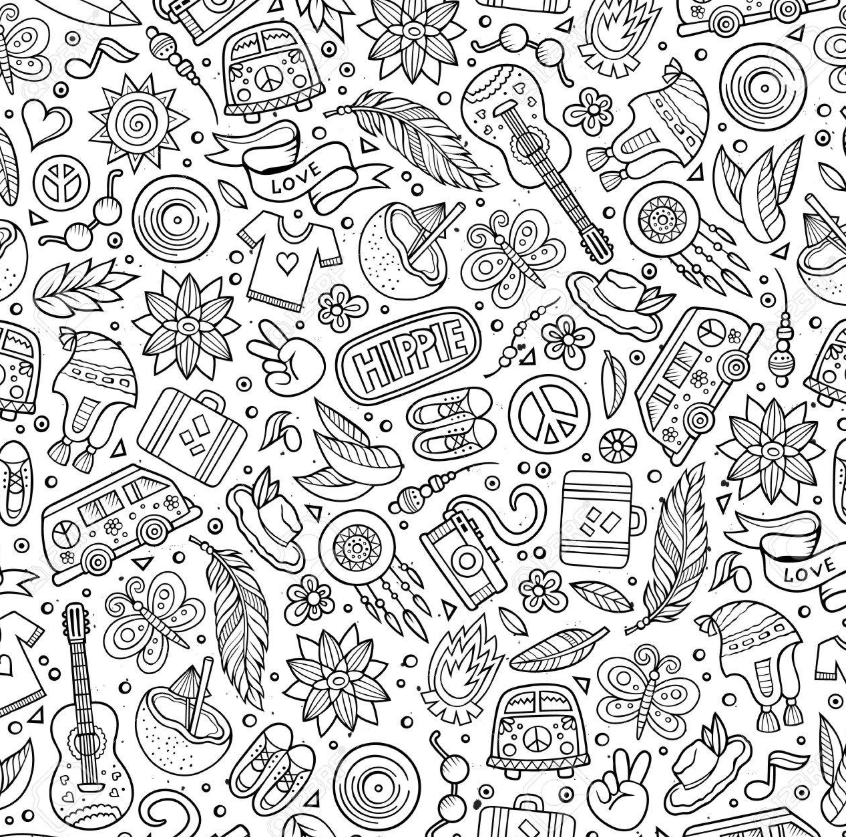
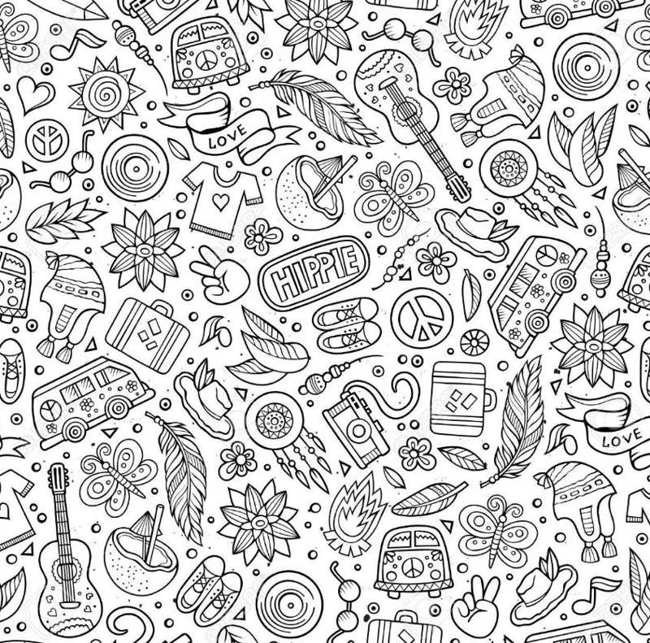
images resized in home.jsx

diff --git a/frontend/src/modules/customer/components/shared/SkeletonLoader.jsx b/frontend/src/modules/customer/components/shared/SkeletonLoader.jsx
@@ -1,0 +1,133 @@
+import React from 'react';
+import { cn } from '@/lib/utils';
+
+export const Skeleton = ({ className, ...props }) => {
+  return (
+    <div
+      className={cn("animate-pulse rounded bg-slate-200/80 dark:bg-slate-800/80", className)}
+      {...props}
+    />
+  );
+};
+
+export const ProductCardSkeleton = ({ compact = false }) => {
+  return (
+    <div className="bg-white rounded-2xl p-3 border border-slate-100 shadow-sm flex flex-col gap-3 h-full">
+      {/* Image Skeleton */}
+      <Skeleton className="w-full aspect-[4/3] rounded-xl" />
+      
+      {/* Title & Brand Skeletons */}
+      <div className="space-y-2 flex-1">
+        <Skeleton className="h-4 w-3/4 rounded" />
+        <Skeleton className="h-3 w-1/2 rounded" />
+      </div>
+      
+      {/* Price & Add button Row */}
+      <div className="flex items-center justify-between mt-1 pt-2 border-t border-slate-50">
+        <div className="space-y-1">
+          <Skeleton className="h-4 w-12 rounded" />
+          <Skeleton className="h-3 w-8 rounded" />
+        </div>
+        <Skeleton className="h-8 w-16 rounded-lg" />
+      </div>
+    </div>
+  );
+};
+
+export const ShopCardSkeleton = () => {
+  return (
+    <div className="bg-white rounded-2xl p-3 shadow-[0_4px_20px_rgba(0,0,0,0.03)] border border-slate-100/80 flex flex-col gap-2.5">
+      {/* Shop Image Skeleton */}
+      <Skeleton className="w-full aspect-[4/3] rounded-xl" />
+      
+      {/* Shop Name & Details */}
+      <div className="space-y-2">
+        <Skeleton className="h-4 w-5/6 rounded" />
+        <div className="flex items-center gap-1.5">
+          <Skeleton className="h-3 w-1/3 rounded" />
+          <Skeleton className="h-3 w-1/4 rounded" />
+        </div>
+      </div>
+    </div>
+  );
+};
+
+export const ShopHeaderSkeleton = () => {
+  return (
+    <div className="w-full">
+      {/* Banner Skeleton */}
+      <div className="relative w-full h-48 md:h-72 bg-slate-200 animate-pulse rounded-b-3xl">
+        <div className="absolute inset-0 bg-gradient-to-t from-[#fbf9ff] to-transparent" />
+      </div>
+      
+      {/* Shop Info Card Skeleton */}
+      <div className="max-w-6xl mx-auto px-4 md:px-8 relative -mt-16 z-10">
+        <div className="bg-white rounded-3xl p-6 shadow-[0_8px_30px_rgba(0,0,0,0.04)] border border-slate-100 mb-6">
+          <div className="flex flex-col md:flex-row md:items-start justify-between gap-6">
+            <div className="flex items-center gap-4.5">
+              {/* Logo */}
+              <Skeleton className="h-20 w-20 rounded-2xl flex-shrink-0" />
+              {/* Title & Category */}
+              <div className="space-y-2.5">
+                <Skeleton className="h-7 w-48 rounded-lg" />
+                <div className="flex gap-2">
+                  <Skeleton className="h-5 w-20 rounded-full" />
+                  <Skeleton className="h-5 w-32 rounded-full" />
+                </div>
+              </div>
+            </div>
+            {/* Action Card Skeleton */}
+            <Skeleton className="h-20 w-full md:w-64 rounded-2xl" />
+          </div>
+          <div className="grid grid-cols-2 md:grid-cols-4 gap-3 border-t border-slate-100 pt-5 mt-5">
+            {[1, 2, 3, 4].map((i) => (
+              <Skeleton key={i} className="h-5 w-24 rounded" />
+            ))}
+          </div>
+        </div>
+      </div>
+    </div>
+  );
+};
+
+export const CategoryListSkeleton = () => {
+  return (
+    <div className="flex gap-3 overflow-hidden py-2">
+      {[1, 2, 3, 4, 5, 6, 7, 8].map((i) => (
+        <Skeleton key={i} className="h-9 w-24 rounded-xl flex-shrink-0" />
+      ))}
+    </div>
+  );
+};
+
+export default function SkeletonLoader({ variant = 'productGrid', count = 4, className }) {
+  if (variant === 'productGrid') {
+    return (
+      <div className={cn("grid grid-cols-3 md:grid-cols-4 gap-2.5 md:gap-4", className)}>
+        {Array.from({ length: count }).map((_, i) => (
+          <ProductCardSkeleton key={i} />
+        ))}
+      </div>
+    );
+  }
+
+  if (variant === 'shopGrid') {
+    return (
+      <div className={cn("grid grid-cols-2 sm:grid-cols-2 md:grid-cols-4 gap-4", className)}>
+        {Array.from({ length: count }).map((_, i) => (
+          <ShopCardSkeleton key={i} />
+        ))}
+      </div>
+    );
+  }
+
+  if (variant === 'shopHeader') {
+    return <ShopHeaderSkeleton />;
+  }
+
+  if (variant === 'categoryList') {
+    return <CategoryListSkeleton />;
+  }
+
+  return null;
+}

diff --git a/frontend/src/modules/customer/pages/Home.jsx b/frontend/src/modules/customer/pages/Home.jsx
@@ -33,6 +33,7 @@ import { useSettings } from "@core/context/SettingsContext";
 import Lottie from "lottie-react";
 import { applyCloudinaryTransform } from "@/core/utils/imageUtils";
 import { getJSON, remove as removeStorage, STORAGE_KEYS } from "@core/utils/storage";
+import SkeletonLoader from "../components/shared/SkeletonLoader";
 
 import {
   MARQUEE_MESSAGES,
@@ -42,7 +43,10 @@ import {
 
 import LowestPriceSection from "../components/home/LowestPriceSection";
 import OfferSections from "../components/home/OfferSections";
-const getShopImage = (category, shopName) => {
+const getShopImage = (category, shopName, shopLogo) => {
+  if (shopLogo) {
+    return applyCloudinaryTransform(shopLogo, "f_auto,q_auto,w_400,h_300,c_fill");
+  }
   const cat = String(category || "").toLowerCase();
   const name = String(shopName || "").toLowerCase();
   if (cat.includes("milk") || cat.includes("dairy") || name.includes("milk") || name.includes("dairy")) {
@@ -748,46 +752,61 @@ const Home = () => {
               </span>
             </div>
 
-            <div className="grid grid-cols-2 sm:grid-cols-2 md:grid-cols-4 gap-4">
-              {dynamicShops.map((shop) => (
-                <div key={shop._id} onClick={() => navigate(`/shops/${shop._id}`)} className="bg-white rounded-2xl p-3 shadow-[0_4px_20px_rgba(0,0,0,0.03)] border border-slate-100/80 flex flex-col gap-2.5 hover:shadow-[0_8px_30px_rgba(0,0,0,0.07)] hover:-translate-y-0.5 transition-all duration-300 group cursor-pointer">
-                  <div className="w-full aspect-[4/3] rounded-xl overflow-hidden bg-slate-50 relative">
-                    <img
-                      src={getShopImage(shop.category, shop.shopName)}
-                      alt={shop.shopName}
-                      className="w-full h-full object-cover group-hover:scale-105 transition-transform duration-500"
-                    />
-                    <span className="absolute top-2 right-2 bg-white/95 backdrop-blur-sm px-2 py-0.5 rounded-full text-[10px] font-extrabold text-slate-800 shadow-sm flex items-center gap-0.5">
-                      ⭐ {shop.rating || "4.6"}
-                    </span>
-                  </div>
-                  <div className="flex flex-col gap-1">
-                    <h4 className="font-extrabold text-slate-850 text-xs md:text-sm lg:text-base line-clamp-1 leading-tight group-hover:text-primary transition-colors">
-                      {shop.shopName}
-                    </h4>
-                    <div className="flex items-center gap-1.5 text-[10px] md:text-[11px] font-bold text-slate-500">
-                      <span>{shop.deliveryTime || "15-25 min"}</span>
-                      <span className="w-1 h-1 bg-slate-300 rounded-full"></span>
-                      <span className="text-[#10b981]">Free Delivery</span>
-                    </div>
-                    {shop.distance !== undefined && (
-                      <span className="text-[10px] text-slate-400 font-medium">
-                        {typeof shop.distance === 'number' ? `${shop.distance.toFixed(1)} km away` : shop.distance}
+            {isLoading ? (
+              <SkeletonLoader variant="shopGrid" count={4} />
+            ) : (
+              <div className="grid grid-cols-2 sm:grid-cols-2 md:grid-cols-4 gap-4">
+                {dynamicShops.map((shop) => (
+                  <div key={shop._id} onClick={() => navigate(`/shops/${shop._id}`)} className="bg-white rounded-2xl p-3 shadow-[0_4px_20px_rgba(0,0,0,0.03)] border border-slate-100/80 flex flex-col gap-2.5 hover:shadow-[0_8px_30px_rgba(0,0,0,0.07)] hover:-translate-y-0.5 transition-all duration-300 group cursor-pointer">
+                    <div className="w-full aspect-[4/3] rounded-xl overflow-hidden bg-slate-50 relative">
+                      <img
+                        src={getShopImage(shop.category, shop.shopName, shop.shopLogo || shop.logo || shop.shopImage)}
+                        alt={shop.shopName}
+                        className="w-full h-full object-cover group-hover:scale-105 transition-transform duration-500"
+                      />
+                      <span className="absolute top-2 right-2 bg-white/95 backdrop-blur-sm px-2 py-0.5 rounded-full text-[10px] font-extrabold text-slate-800 shadow-sm flex items-center gap-0.5">
+                        ⭐ {shop.rating || "4.6"}
                       </span>
-                    )}
+                    </div>
+                    <div className="flex flex-col gap-1">
+                      <h4 className="font-extrabold text-slate-850 text-xs md:text-sm lg:text-base line-clamp-1 leading-tight group-hover:text-primary transition-colors">
+                        {shop.shopName}
+                      </h4>
+                      <div className="flex items-center gap-1.5 text-[10px] md:text-[11px] font-bold text-slate-500">
+                        <span>{shop.deliveryTime || "15-25 min"}</span>
+                        <span className="w-1 h-1 bg-slate-300 rounded-full"></span>
+                        <span className="text-[#10b981]">Free Delivery</span>
+                      </div>
+                      {shop.distance !== undefined && (
+                        <span className="text-[10px] text-slate-400 font-medium">
+                          {typeof shop.distance === 'number' ? `${shop.distance.toFixed(1)} km away` : shop.distance}
+                        </span>
+                      )}
+                    </div>
                   </div>
-                </div>
-              ))}
-            </div>
+                ))}
+              </div>
+            )}
           </div>
 
-          <LowestPriceSection products={products} onSeeAll={() => navigate("/category/all")} />
-          <OfferSections sections={offerSections} noServiceData={noServiceData} />
-
-          {sectionsForRenderer.length > 0 && (
+          {isLoading ? (
             <div className="container mx-auto max-w-6xl px-4 md:px-8 py-5 md:py-6">
-              <SectionRenderer sections={sectionsForRenderer} productsById={productsById} categoriesById={categoryMap} subcategoriesById={subcategoryMap} />
+              <h3 className="text-base md:text-xl font-black text-[#1A1A1A] tracking-tight uppercase mb-4">
+                Loading products...
+              </h3>
+              <SkeletonLoader variant="productGrid" count={8} />
             </div>
+          ) : (
+            <>
+              <LowestPriceSection products={products} onSeeAll={() => navigate("/category/all")} />
+              <OfferSections sections={offerSections} noServiceData={noServiceData} />
+
+              {sectionsForRenderer.length > 0 && (
+                <div className="container mx-auto max-w-6xl px-4 md:px-8 py-5 md:py-6">
+                  <SectionRenderer sections={sectionsForRenderer} productsById={productsById} categoriesById={categoryMap} subcategoriesById={subcategoryMap} />
+                </div>
+              )}
+            </>
           )}
         </>
       )}

diff --git a/frontend/src/modules/customer/pages/ShopDetails.jsx b/frontend/src/modules/customer/pages/ShopDetails.jsx
@@ -10,6 +10,7 @@ import { customerApi } from "../services/customerApi";
 import ProductCard from "../components/shared/ProductCard";
 import { useCart } from "../context/CartContext";
 import { applyCloudinaryTransform } from "@/core/utils/imageUtils";
+import SkeletonLoader from "../components/shared/SkeletonLoader";
 
 const SHOP_CATEGORIES = [
   "All", "Groceries", "Fruits & Vegetables", "Dairy & Milk", "Bakery",
@@ -197,38 +198,11 @@ const ShopDetails = () => {
 
   if (isLoading) {
     return (
-      <div className="min-h-screen bg-slate-50 pt-[100px] pb-24 font-sans max-w-6xl mx-auto px-4 md:px-8">
-        {/* Banner Skeleton */}
-        <div className="w-full h-48 md:h-64 rounded-3xl bg-slate-200 animate-pulse mb-6" />
-        
-        {/* Info Skeleton */}
-        <div className="bg-white rounded-3xl p-6 shadow-sm border border-slate-100 mb-8 space-y-4">
-          <div className="flex gap-4 items-center">
-            <div className="h-16 w-16 rounded-2xl bg-slate-200 animate-pulse" />
-            <div className="space-y-2 flex-1">
-              <div className="h-6 w-1/3 bg-slate-200 animate-pulse rounded" />
-              <div className="h-4 w-1/4 bg-slate-200 animate-pulse rounded" />
-            </div>
-          </div>
-          <div className="h-4 w-2/3 bg-slate-200 animate-pulse rounded" />
-        </div>
-
-        {/* Categories Skeleton */}
-        <div className="flex gap-3 overflow-hidden mb-8">
-          {[1, 2, 3, 4, 5, 6].map(i => (
-            <div key={i} className="h-10 w-24 bg-slate-200 rounded-full animate-pulse flex-shrink-0" />
-          ))}
-        </div>
-
-        {/* Products Grid Skeleton */}
-        <div className="grid grid-cols-2 md:grid-cols-4 gap-4">
-          {[1, 2, 3, 4].map(i => (
-            <div key={i} className="bg-white rounded-2xl p-4 shadow-sm border border-slate-100 h-64 flex flex-col space-y-3">
-              <div className="w-full flex-1 bg-slate-200 animate-pulse rounded-xl" />
-              <div className="h-4 w-3/4 bg-slate-200 animate-pulse rounded" />
-              <div className="h-6 w-1/2 bg-slate-200 animate-pulse rounded" />
-            </div>
-          ))}
+      <div className="min-h-screen bg-slate-50 pb-24 font-sans">
+        <SkeletonLoader variant="shopHeader" />
+        <div className="max-w-6xl mx-auto px-4 md:px-8 space-y-6">
+          <SkeletonLoader variant="categoryList" />
+          <SkeletonLoader variant="productGrid" count={8} />
         </div>
       </div>
     );
@@ -252,7 +226,7 @@ const ShopDetails = () => {
       
       {/* 1. Header Banner Area */}
       <div className="relative w-full h-48 md:h-72 overflow-hidden bg-slate-900">
-        <img src={getShopBanner()} alt={shop.shopName} className="w-full h-full object-cover opacity-80" />
+        <img src={applyCloudinaryTransform(getShopBanner(), "f_auto,q_auto,w_1200,h_400,c_fill")} alt={shop.shopName} className="w-full h-full object-cover opacity-80" />
         <div className="absolute inset-0 bg-gradient-to-t from-[#fbf9ff] via-transparent to-black/30 pointer-events-none" />
         
         {/* Back Button */}
@@ -272,7 +246,7 @@ const ShopDetails = () => {
             <div className="flex items-center gap-4.5">
               <div className="h-20 w-20 rounded-2xl overflow-hidden bg-purple-50 border border-purple-100 flex items-center justify-center flex-shrink-0 shadow-inner">
                 {shop.shopLogo ? (
-                  <img src={shop.shopLogo} alt={shop.shopName} className="h-full w-full object-cover" />
+                  <img src={applyCloudinaryTransform(shop.shopLogo, "f_auto,q_auto,w_200,h_200,c_fill")} alt={shop.shopName} className="h-full w-full object-cover" />
                 ) : (
                   <span className="text-2xl font-black text-[#3a2a83]">{getInitials(shop.shopName)}</span>
                 )}
@@ -486,18 +460,17 @@ const ShopDetails = () => {
           <h2 className="text-base md:text-lg font-black text-slate-800 tracking-tight uppercase mb-4 flex items-center gap-1.5">
             📸 Shop Gallery
           </h2>
-          {/* Mobile: horizontal scroll, Desktop: grid */}
           <div className="hidden md:grid grid-cols-3 gap-4">
             {allGalleryImages.map((img, idx) => (
               <div key={idx} className="aspect-[4/3] rounded-2xl overflow-hidden shadow-sm border border-slate-100 bg-slate-100 group">
-                <img src={img} alt="Store Interior/Shelves" className="w-full h-full object-cover transition-transform duration-500 group-hover:scale-105" />
+                <img src={applyCloudinaryTransform(img, "f_auto,q_auto,w_600,h_450,c_fill")} alt="Store Interior/Shelves" className="w-full h-full object-cover transition-transform duration-500 group-hover:scale-105" />
               </div>
             ))}
           </div>
           <div className="md:hidden flex gap-4 overflow-x-auto pb-3 no-scrollbar -mx-4 px-4">
             {allGalleryImages.map((img, idx) => (
               <div key={idx} className="w-72 aspect-[4/3] rounded-2xl overflow-hidden shadow-sm border border-slate-100 bg-slate-100 shrink-0">
-                <img src={img} alt="Store Interior/Shelves" className="w-full h-full object-cover" />
+                <img src={applyCloudinaryTransform(img, "f_auto,q_auto,w_600,h_450,c_fill")} alt="Store Interior/Shelves" className="w-full h-full object-cover" />
               </div>
             ))}
           </div>
@@ -551,7 +524,7 @@ const ShopDetails = () => {
                 >
                   <div className="aspect-[4/3] rounded-2xl bg-purple-50 overflow-hidden relative border border-slate-100">
                     {s.shopLogo ? (
-                      <img src={s.shopLogo} alt={s.shopName} className="w-full h-full object-cover" />
+                      <img src={applyCloudinaryTransform(s.shopLogo, "f_auto,q_auto,w_400,h_300,c_fill")} alt={s.shopName} className="w-full h-full object-cover" />
                     ) : (
                       <div className="w-full h-full flex items-center justify-center font-black text-purple-700 text-lg">
                         {getInitials(s.shopName)}

diff --git a/frontend/vite.config.js b/frontend/vite.config.js
@@ -83,6 +83,12 @@ export default defineConfig({
           if (id.includes('framer-motion')) return 'vendor-motion'
           if (id.includes('firebase')) return 'vendor-firebase'
           if (id.includes('recharts')) return 'vendor-charts'
+          if (id.includes('jspdf')) return 'vendor-jspdf'
+          if (id.includes('lottie-web') || id.includes('lottie-react')) return 'vendor-lottie'
+          if (id.includes('tesseract.js') || id.includes('tesseract.js-core')) return 'vendor-tesseract'
+          if (id.includes('@react-google-maps') || id.includes('react-google-maps')) return 'vendor-google-maps'
+          if (id.includes('date-fns')) return 'vendor-date-fns'
+          if (id.includes('lucide-react')) return 'vendor-lucide'
         },
       },
     },